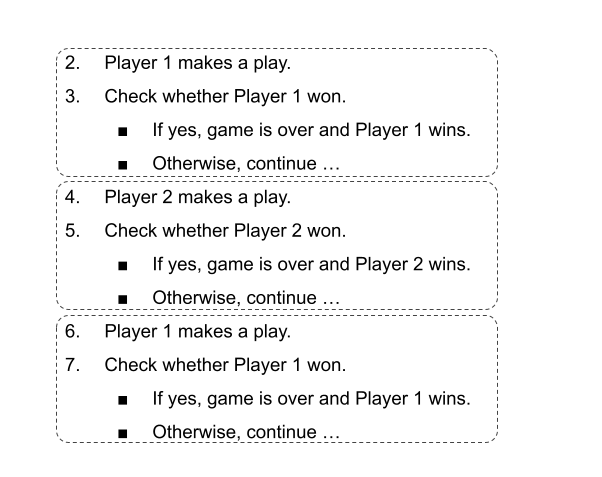
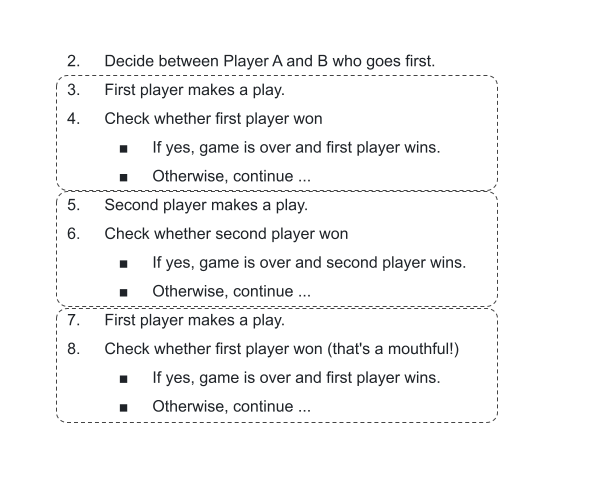
Update Basics Issue

diff --git a/BasicsWithConnect4.md b/BasicsWithConnect4.md
@@ -6,7 +6,7 @@ You can contact the _Times_' editorial department any time at [hawkinwh@ucmail.u
 
 ## What's News
 
-Now that the Microsoft has [signed an agreement to source electricity from the undamaged reactor at Three Mile Island](https://www.technologyreview.com/2024/09/26/1104516/three-mile-island-microsoft/), there will be enough excess energy in the grid managed by [PJM Interconnection](https://en.wikipedia.org/wiki/PJM_Interconnection) to support C++ developers in Ohio who are training generative AI models to conquer the game of Connect 4.
+Now that the Meta has signed on to build [a new source of nuclear energy in Pike County](https://about.fb.com/news/2026/01/meta-nuclear-energy-projects-power-american-ai-leadership/), there will be enough excess energy in the grid managed by [PJM Interconnection](https://en.wikipedia.org/wiki/PJM_Interconnection) to support C++ developers in Ohio who are training generative AI models to conquer the game of Connect 4.
 
 ## Nail the Basics
 
@@ -26,20 +26,33 @@ We can easily codify and formalize the rules for playing Connect 4 and increase 
 
 Great. That's very succinct and encompasses the entirety of the game. It's a good place to start. However, there are lots of unanswered questions: What is a "play"? What does it mean to "win"? When does a turn end and control of the board switch between the players?
 
-In order to answer those questions, we repeatedly refine our initial description and add more and more detail. Let's assume that there are two players, Player A and Player B:
+In order to answer those questions, we repeatedly refine our initial description by adding more and more detail. Let's assume that there are two players, Player A and Player B:
 
 1. Decide between Player A and B who goes first.
 2. Take turns making a play until someone wins.
 
 Good. Let's add additional refinement:
 
-![](./graphics/Connect4Algorithm.png)
+
+1. Decide between Player A and B who goes first.
+1. First player makes a play.
+1. Check whether first player won
+   - If yes, game is over and first player wins.
+   - Otherwise, continue ...
+4. Second player makes a play.
+1. Check whether second player won
+   - If yes, game is over and second player wins.
+   - Otherwise, continue ...
+6. First player makes a play.
+1. Check whether first player won (that's a mouthful!)
+   - If yes, game is over and first player wins.
+   - Otherwise, continue ...
 
 Okay, this is starting to get repetitive. But, by adding details to our description of the game play, we are making progress in the process of refining our initial, succinct _but complete_ algorithm for playing Connect 4. In the process of refining, we are not making our algorithm any more correct. We are simply making it more explicit.
 
 ## Fake Programming is *Real*ly Important 
 
-Although we are not yet programming in the truest sense of the word, we are completing a very important part of the software engineering and design process: writing _pseudocode_. Pseudocode is a type of programming language that looks like a combination of natural language and _actual_ programming language. We use pseudocode when designing a programming solution the same way that we use an outline when writing an essay -- to organize our thoughts.[^1]
+Although we are not yet programming in the truest sense of the word, we are completing a very important part of the software engineering and design process: writing _pseudocode_. Pseudocode is written in a type of programming language that looks like a combination of natural language and _actual_ programming language. We use pseudocode when designing a programming solution the same way that we use an outline when writing an essay -- to organize our thoughts.[^1]
 
 [^1]: You _do_ write an outline for all your essays, right?
 
@@ -60,7 +73,7 @@ What we generate by turning an algorithm (usually written in pseudocode) into so
 
 ## Shout From the Rooftops
 
-Although our solution is still very broad and, in some ways, very vague, we are slowly chipping away at the details. Each time we return to our algorithm and tweak it further, we are adding more details -- we are refining the description step by step. We are doing something that professional programmers do all the time -- [_stepwise refinement_](https://www.cs.cornell.edu/courses/JavaAndDS/stepwise/stepwise.html).
+Although our solution is still very broad and, in some ways, very vague, we are slowly chipping away at the details. Each time we return to our algorithm and tweak it further by adding more details we are refining the description step by step. This iterative process (study algorithm, tweak, study algorithm, tweak, ...) is something that professional programmers do all the time -- [_stepwise refinement_](https://www.cs.cornell.edu/courses/JavaAndDS/stepwise/stepwise.html).
 
 This technique is really important. When we start thinking about solving a problem, we focus as much as possible on the big picture. In the case of Connect 4, we talk about players, taking turns, winning, losing, etc. During our initial algorithm design, we pretended that we had good definitions for those terms and, for example, good ways to determine who won and lost. We wrote our algorithm as if they existed. 
 
@@ -95,6 +108,8 @@ Woah! Much simpler.
 
 What did we just do? Well, we deployed something that all good programmers use -- a variable. A _variable_ is the name of a place in memory that holds a value that can change over time. While you and I are playing our game, the "memory" is just our brain (until I fool you into thinking that it's actually my turn twice in a row!). When we are programming in C++, that memory will be _(non)volatile_ storage.
 
+Before moving on, notice something really important about the variable that we just introduced: the name for the variable (_Active Player_) is really descriptive of its contents. Although we could have chosen to name the variable _v_ or _x_ or _abracadabra_, that would not have been nearly as memorable, or descriptive.
+
 ## Abstract Art
 
 Earlier we discussed a very important term, abstraction, but I failed to give you a good definition. And I'm still not going to spell it out precisely!
@@ -109,7 +124,7 @@ I will say that there are myriad ways that computer scientists use abstraction a
 Doing Steps (2) and (3) repeatedly will (basically) give you a close approximation of a complete Connect 4 game. We could even give those two statements a name -- something like _make a play and check for winner_. Then, in a loop, our code for Connect 4 would be:
 
 ```
-While there is no winner,
+while there is no winner,
 do the statements in (make a play and check for winner).
 ```
 
